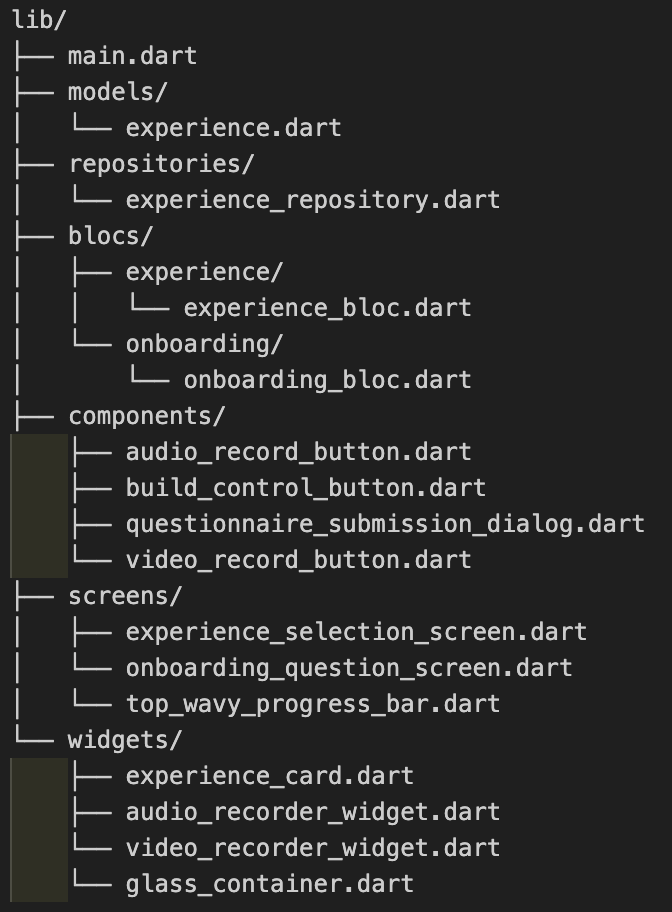
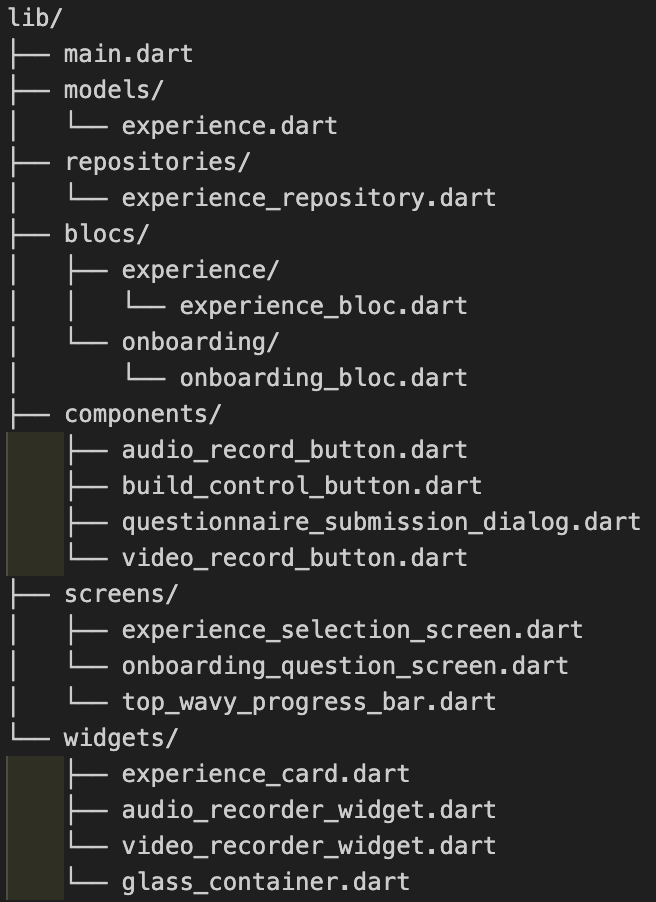
Readme edited

Changed region(s): [[0.0, 0.0, 0.9756, 0.9933], [0.0915, 0.031, 0.7622, 0.2483]]

diff --git a/README.md b/README.md
@@ -31,32 +31,9 @@ Onboarding Question Screen
     8. Audio/videos have delete/stop/cancel options
 
 Project Structure
+
+
 ![alt text](image.png)
-lib/
-├── main.dart
-├── models/
-│   └── experience.dart
-├── repositories/
-│   └── experience_repository.dart
-├── blocs/
-│   ├── experience/
-│   │   └── experience_bloc.dart
-│   └── onboarding/
-│       └── onboarding_bloc.dart
-├── components/
-    ├── audio_record_button.dart
-    ├── build_control_button.dart
-    ├── questionnaire_submission_dialog.dart
-    └── video_record_button.dart
-├── screens/
-│   ├── experience_selection_screen.dart
-│   └── onboarding_question_screen.dart
-│   └── top_wavy_progress_bar.dart
-└── widgets/
-    ├── experience_card.dart
-    ├── audio_recorder_widget.dart
-    └── video_recorder_widget.dart
-    └── glass_container.dart
 
 
 ## Default flutter project creation stuff 
